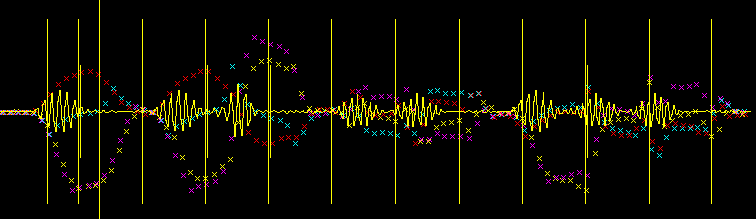
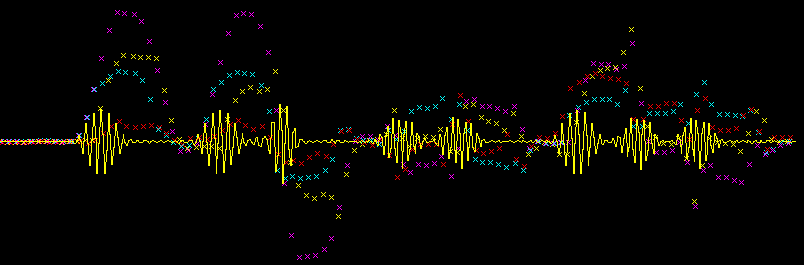
Yet more report changes

diff --git a/report/report.html b/report/report.html
@@ -136,7 +136,7 @@ fall on the alias of a zero rather than the normal interpretation of the locatio
 </p><p>
 Fortunately, it is possible to satisfy the requirement that each transmit frequency alias to a zero of all other transmit frequencies 
 for at least four frequencies in the range 20 Hz-20 kHz. Table 1 lists the zeros for the frequencies we have chosen. Aliases of these 
-zeros occur for each zero plus a multiple of the sampling frequency (4.8, 6, 8.4, or 10.8 kHz).
+zeros occur for each zero plus a multiple of the sampling frequency (4.8, 6, or 7.2 kHz).
 <center><div class="main-photo-largest">
 	<img src="zero_table.png" alt="" width="630"/>
 	<p class="caption">Zeros of N-Term Averagers</p>
@@ -219,13 +219,18 @@ The hardware for the acoustic modem is relatively simple. It can be broken into 
 </div></center>
 <p>To receive signals, the main ISR mentioned above plays a minimal role. Every time the ISR is executed (40kHz), it uses the on-board ADC to sample to voltage from the input circuitry and convert it to a signed <span class="code">int8_t</span> by subtracting an offset of 128. This sample is placed into a 64-byte global circular input buffer. 
 </p>
-<p>In the main loop, we run a detection block for every frequency of interest. Each frequency of interest has a <span class="code">struct</span> with the appropriate detection parameters; these parameters are generated at runtime based on the frequencies hard-coded into the program. Each detection block runs once for every iteration of the main loop. Each detection block uses the latest input data collected by the ISR. The detection block for frequency <i>f</i> resamples the data (i.e. advances in the input buffer at a different rate) with a frequency of 40 kHz / <i>f</i>. These resampling pointers are stored in a 6:10 fixed-point variable to prevent error accumulation. Four resampled data points are added to the accumulators for four different components offset in phase from each other by 45º. Using four components instead of one prevents phase differences during the resampling process from affecting the data. These four accumulators each store the sum of the past <i>n</i> resamples for their respective phase offset, where <i>n</i> is the number of resamples in one 'frame' (a frame is 64 samples at 40 kHz, the length of one bit). Every time we add a new resample, the oldest one is deleted to maintain our resampling window. From these four accumulators, we calculate the sums of squares of the two accumulators with a phase offset of 90º, i.e. <span class="code">(phase offset 0º)<sup>2</sup> + (phase offset 90º)<sup>2</sup></span> and <span class="code">(phase offset 45º)<sup>2</sup> + (phase offset 135º)<sup>2</sup></span>.
+<p>In the main loop, we run a detection block for every frequency of interest. Each frequency of interest has a <span class="code">struct</span> with the appropriate detection parameters; these parameters are generated at runtime based on the frequencies hard-coded into the program. Each detection block runs once for every iteration of the main loop. Each detection block uses the latest input data collected by the ISR. The detection block for frequency <i>f</i> resamples the data (i.e. advances in the input buffer at a different rate) with a frequency of 40 kHz / <i>f</i>. These resampling pointers are stored in a 6:10 fixed-point variable to prevent error accumulation. Four resampled data points are added to the accumulators for four different components offset in phase from each other by 45º. Using four components instead of one prevents phase differences during the resampling process from affecting the data. These four accumulators each store the sum of the past <i>n</i> resamples for their respective phase offset, where <i>n</i> is the number of resamples in one 'frame' (a frame is 64 samples at 40 kHz, the length of one bit). Every time we add a new resample, the oldest one is deleted to maintain our resampling window. From these four accumulators, we calculate the sums of squares of the two accumulators with a phase offset of 90º, i.e. <span class="code">(phase offset 0º)<sup>2</sup> + (phase offset 90º)<sup>2</sup></span> and <span class="code">(phase offset 45º)<sup>2</sup> + (phase offset 135º)<sup>2</sup></span>. These two sums of squares are then averaged to produce our final magnitude.
 </p>
-<center><div class="main-photo-large">
-	<a class="image" href="sample_raw_data.png" target="_BLANK"><img src="sample_raw_data.png" alt="" width="510"/></a>
-	<p class="caption">Sample raw data collected by the receive software<br/><i>The yellow signal line is a dump of raw data collected by the ADC<br/>The x's of a single color represent the value of an accumulator</i></p>
+<center><div class="main-photo-largest">
+	<a class="image" href="sample_raw_data.png" target="_BLANK"><img src="sample_raw_data.png" alt="" width="630"/></a>
+	<p class="caption">Sample raw data collected by the receive code<br/>The character <span class="code">'a'</span> was transmitted at 6.0 kHz and the character <span class="code">'f'</span> was transmitted at 8.4 kHz<br/><i>The yellow signal line is a dump of raw data collected by the ADC<br/>The x's of a single color represent the value of an accumulator when resampled at 6.0 kHz</i></p>
 </div></center>
-<p> These two sums of squares are then averaged to produce our final magnitude.
+<br/>
+<center><div class="main-photo-largest">
+	<a class="image" href="sample_mag.png" target="_BLANK"><img src="sample_mag.png" alt="" width="630"/></a>
+	<p class="caption">The corresponding final magnitude for the raw data above, resampled at 6.0 kHz<br/>Here, the character <span class="code">'a' (0b01100010)</span> with the preceding start bit can be seen</p>
+</div></center>
+<p>
 </p>
 <h4 id="client">Client-Side</h4>
 <p>
@@ -242,7 +247,13 @@ The majority of the trial and error in this project related to tuning the freque
 <h3 id="soft_ex">Software Execution</h3>
 <p></p>
 <h3 id="accuracy">Accuracy</h3>
-<p></p>
+<p>Accuracy can be broken into two categories: accuracy in timing, synthesis of waves, and sampling data; and accuracy of transmission results. For synthesis and timing, we have verified that our project is very accurate, producing the pulses that we desire for the appropriate durations at the appropriate frequencies. We have also verified that it is very accurate in its encoding scheme, consistently producing the same pulse train for the same input data. Both of these features are basic stepping stones that needed to be in place in order to even have a passing chance of successfully transmitting data with any kind of quality of transmission.</p>
+<center><div class="main-photo-large">
+	<img src="images/IMG_1080.png" alt="" width="510"/>
+	<p class="caption">Two 1.6 ms Pulses During Transmission at two Frequencies Simultaneously</p>
+</div></center>
+<p>We have implicitly verified that the ISR runs at a consistent rate. The only possible slip in timing is at the end of a frame (when the output is 128 for several samples in a row), when new data is loaded from flash memory into our frequency cache. This slip does not affect the functionality of the acoustic modem because it is extending the duration of one of a series of zero-value samples.</p>
+<p>TODO ACCURACY OF TRANSMITTED DATA HERE.</p>
 <h3 id="safety">Safety Enforcement</h3>
 <p>There are only two potential safety problems associated with our project. One is the volume of sound produced by the speaker, which could potentially harm a human if it is too loud. However, our speakers are physically limited to 83 dB at maximum rated power output (3 W), and we drive the speakers at approximately 1/2 W, which should make our actual sound intensity level much lower than 83 dB. This is well below the threshold of pain for human hearing and therefore not a safety hazard, although the sound can become annoying if repeated continuously in an enclosed space. The other safety hazard is the temperature of several components on the board. The linear regular must dissipate nearly 2 W continuosly in order to supply half an amp of current at 5 V, with a 9 V input. This causes it to heat up significantly, and it could cause a burn if a person were to touch the heatsink for more than a brief instant. Similarly, all four transistors in the speaker driving circuit are also extemely hot. The speaker circuitry dissipates a total of approximately 2.5 W, including the power used to drive the speaker itself. Because we do not have a box there is no way to prevent the user from touching one of the hot components, but the speaker mounts and the large output capacitor make it difficult to grab hold of these transistors.</p>
 <h3 id="interference">Interference and Accessibility</h3>
@@ -259,7 +270,7 @@ The majority of the trial and error in this project related to tuning the freque
 <p>There are no standards for acoustic modems to conform to that we are aware of, and a survey of manufacturers' websites confirms that they do not list any standards to which they conform. If such standards exist outside our knowledge, it is probably not very important to follow them, as one of the largest manufacturers (<a href="http://www.benthos.com/">Teledyne Benthos</a>) does not list any conforming acoustic modem standards.</p>
 <h3 id="IP">IP Considerations</h3>
 <p>All of the intellectual property relating to the AVR implementation should belong to the two of us, as we consciously did not consult reference implementations of acoustic modems provided by commercial manufacturers (if such references exist). The only sources of information that we used were either example circuits in the public domain (Wikipedia, etc.), the datasheets provided by part manufacturers, or resources provided on the ECE 476 website (code from our projects earlier in the semester). In implementing the client side software, we used an 8-bit CRC implementation obtained from the Quake4 SDK (link unavailable).</p>
-<p>We are open to the idea of the reuse of our processing techniques and any publishing opportunities that may arise. Our code and everything that we have a right to distribute (in the event that we have infringed upon a patent or copyright unknowingly) is released under the terms of the <a href="http://www.gnu.org/licenses/gpl.html">GNU GPL, v3</a></p>
+<p>We are open to the idea of the reuse of our processing techniques and any publishing opportunities that may arise. Our code and everything that we have a right to distribute (in the event that we have infringed upon a patent or copyright unknowingly) is released under the terms of the <a href="http://www.gnu.org/licenses/gpl.html">GNU GPL, v3</a>.</p>
 <h3 id="ethical">Ethical Considerations</h3>
 <p>During the completion of our project, we made an effort to comply with the <a href="http://www.ieee.org/about/ethics_code.html">IEEE code of ethics</a>. We accepted responsibility for the safety of use of our product, disclosing the potential ways in which it could harm a person. We discussed all of the details relating to the only outstanding safety hazard (the temperature of the transistors used). We avoided conflicts of interest by picking a project that is unrelated to previous commercial endeavors that we have been involved with, including previous and foreseeable future internships. We consider our involvement with CUAUV to not be a conflict of interest because the project is being completed specifically in conjunction with CUAUV and for the purpose of inreasing its knowledge base as a team. We were honest and reasonable in our claims of accuracy and results by comparing the results that our implementation was measured to have to the theoretical results that we calculated. We did not accept any bribes (nor were we offered any). We sought assistance, when appropriate, from people more knowledgeable than ourselves, and we answered questions for other groups and offered advice on tasks we had already completed, suggesting things that we had learned through experimentation. We did not discriminate against any people for any reason, and we did not injure anyone for any reason, through action or inaction.
 </p>
